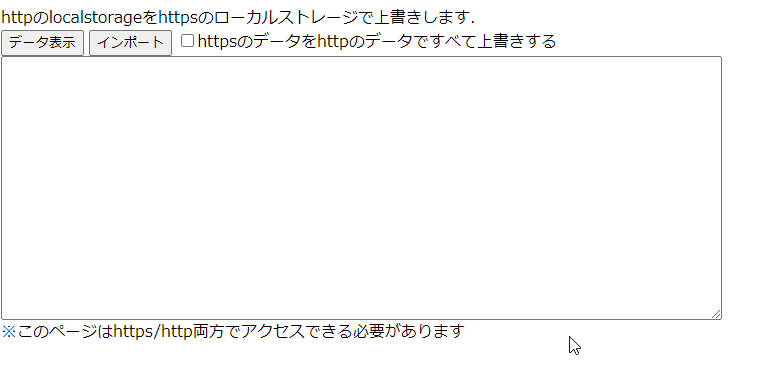
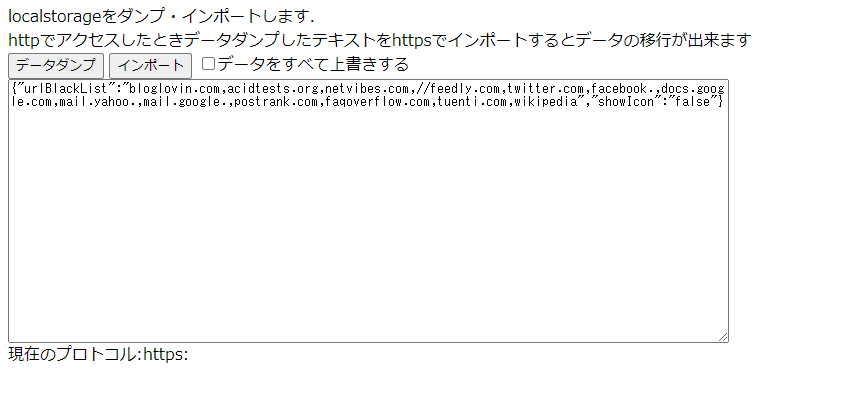
ダンプインポート形式に変更

Changed region(s): [[0.0, 0.0, 0.8765, 0.2654], [0.0, 0.7962, 0.6347, 0.9142], [0.816, 0.7962, 0.8765, 0.8257]]

diff --git a/importLocalStorage.html b/importLocalStorage.html
@@ -4,74 +4,52 @@
 </header>
 <body>
 
-<div id="buttonItem" style="display:none;">
-httpsのlocalstorageをhttpsのlocalstorageで上書きします.<br>
-<input type="button" value="データ表示" onclick="showStorage()" />
+<div id="buttonItem">
+localstorageをダンプ・インポートします.<br>
+httpでアクセスしたときデータダンプしたテキストをhttpsでインポートするとデータの移行が出来ます<br>
+<input type="button" value="データダンプ" onclick="dumpStorage()" />
 <input type="button" value="インポート" onclick="importStorage()" />
-<input type="checkbox" id="allImport" value="httpsのデータをhttpのデータで上書きする"  />httpsのデータをhttpのデータですべて上書きする<br />
+<input type="checkbox" id="allImport" value="httpsのデータをhttpのデータで上書きする"  />データをすべて上書きする<br />
 <textarea id="ss" rows="20" cols="100">
 </textarea>
 </div>
-<div id="warn">
-httpでアクセスしている可能性があります。
-httpsでアクセスしてください。
-</div>
-※このページはhttps/http両方でアクセスできる必要があります
 <script>
 "strict";
-var mode = "";
-var importAll = false;
-function importStorage()
-{
-	mode = "import";
-	importAll = document.getElementById("allImport").checked;
-	window.frames["http"].postMessage("", "*");
+document.write("現在のプロトコル:" + location.protocol);
+function importStorage() {
+	try	{
+	
+		if(confirm("データをロードします本当によろしいですか? 現在のプロトコル:" + location.protocol)) {
+			let store = JSON.parse(document.getElementById("ss").value);
+			let overwrite = document.getElementById("allImport").checked;
+			importLocalStorage(store, overwrite);
+			alert("データの読み込みが完了しました");
+		}
+	} catch(e) {
+		alert("データの読み込みエラーです");
+	}
 }
-function showStorage()
-{
-	mode = "show";
-	window.frames["http"].postMessage("", "*");
+function dumpStorage() {
+	document.getElementById("ss").value = JSON.stringify(exportLocalStorage());
+	alert("テキストボックスにデータを入力しました");
 }
 
-function visibleButton()
-{
-	document.getElementById("buttonItem").style.display = "block";
-	document.getElementById("warn").style.display = "none";
+function exportLocalStorage() {
+	let store = {};
+	let names = Object.getOwnPropertyNames(window.localStorage);
+	for(let i in names) {
+		store[names[i]] = window.localStorage[names[i]];
+	}
+	return store;
 }
 
-if(location.protocol === "http:") {
-	//送り側
-	window.addEventListener("message", (m) => {
-		let store = {};
-		let names = Object.getOwnPropertyNames(window.localStorage);
-		for(let i in names) {
-			store[names[i]] = window.localStorage[names[i]];
+function importLocalStorage(store, overwrite) {
+	let names = Object.getOwnPropertyNames(store);
+	for(let i in names) {
+		if(overwrite || localStorage.getItem(names[i]) === null) {
+			localStorage.setItem(names[i], store[names[i]]);
 		}
-		m.source.postMessage(store, m.origin);
-	});
-} else if(location.protocol === "https:"){
-	let inlineLocation = location.href.replace(/^https:/, "http:");
-	document.write("<iframe name='http' src='" + inlineLocation + "' style='display:none' onload='visibleButton()' />");
-	//受け側
-	window.addEventListener("message", (m) => {
-		if(mode === "import") {
-			let names = Object.getOwnPropertyNames(m.data);
-			for(let i in names) {
-				if(importAll || localStorage.getItem(names[i]) === null) {
-					localStorage.setItem(names[i], m.data[names[i]]);
-				}
-			}
-			alert("データのインポートが完了しました");
-		} else if(mode === "show") {
-			let names = Object.getOwnPropertyNames(m.data);
-			let text = "";
-			for(let i in names) {
-				text = text + names[i] + ":" + m.data[names[i]] + "\n";
-			}
-			document.getElementById("ss").value = text;
-			alert("テキストボックスにデータを入力しました");
-		}
-	});
+	}
 }
 </script>
 </body>

diff --git a/README.md b/README.md
@@ -1,8 +1,8 @@
 # import_http_storage_page_sample
 
-httpのlocalStorageをhttpsのlocalStorageにコピーするサンプルページです。
+localStorageをダンプセーブするサンプルです
 
 `importLocalStorage.html` をhttps/http両方でアクセスできるようにした状態で、
-httpsでアクセスすると該当ドメインのhttpのlocalStorageをコピーすることが出来ます。
+https/httpでアクセスすると該当ドメインのでのローカストレージダンプ/セーブ
 
 ![サンプル画像](sample.png)
